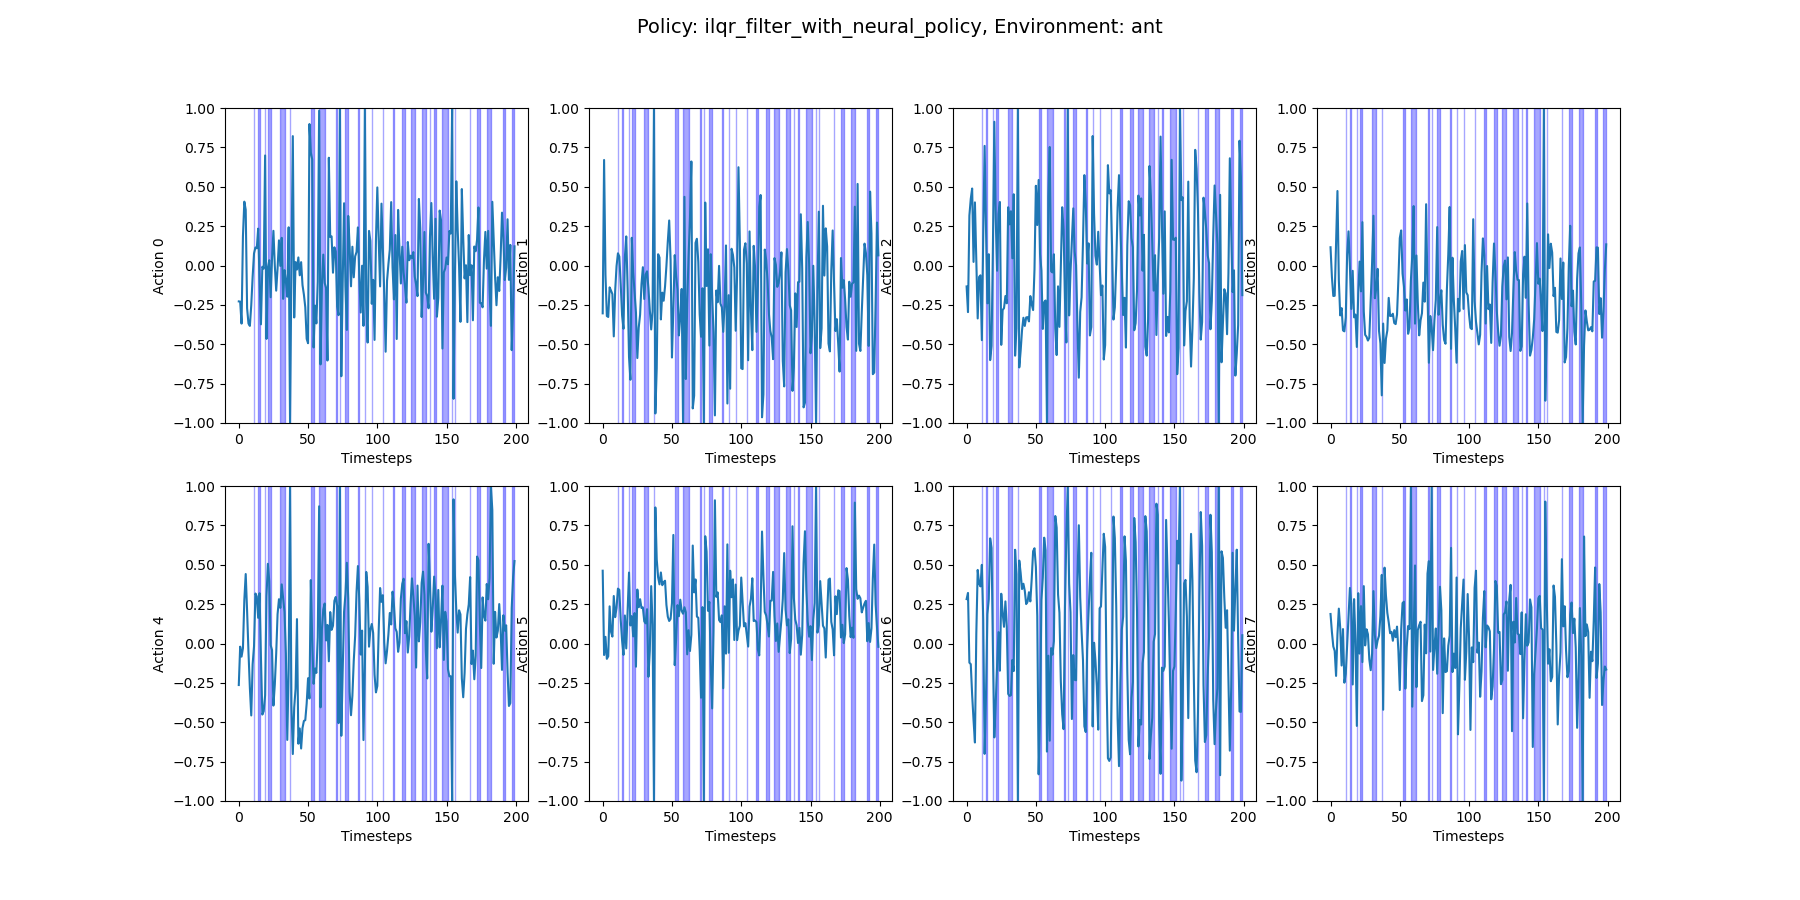
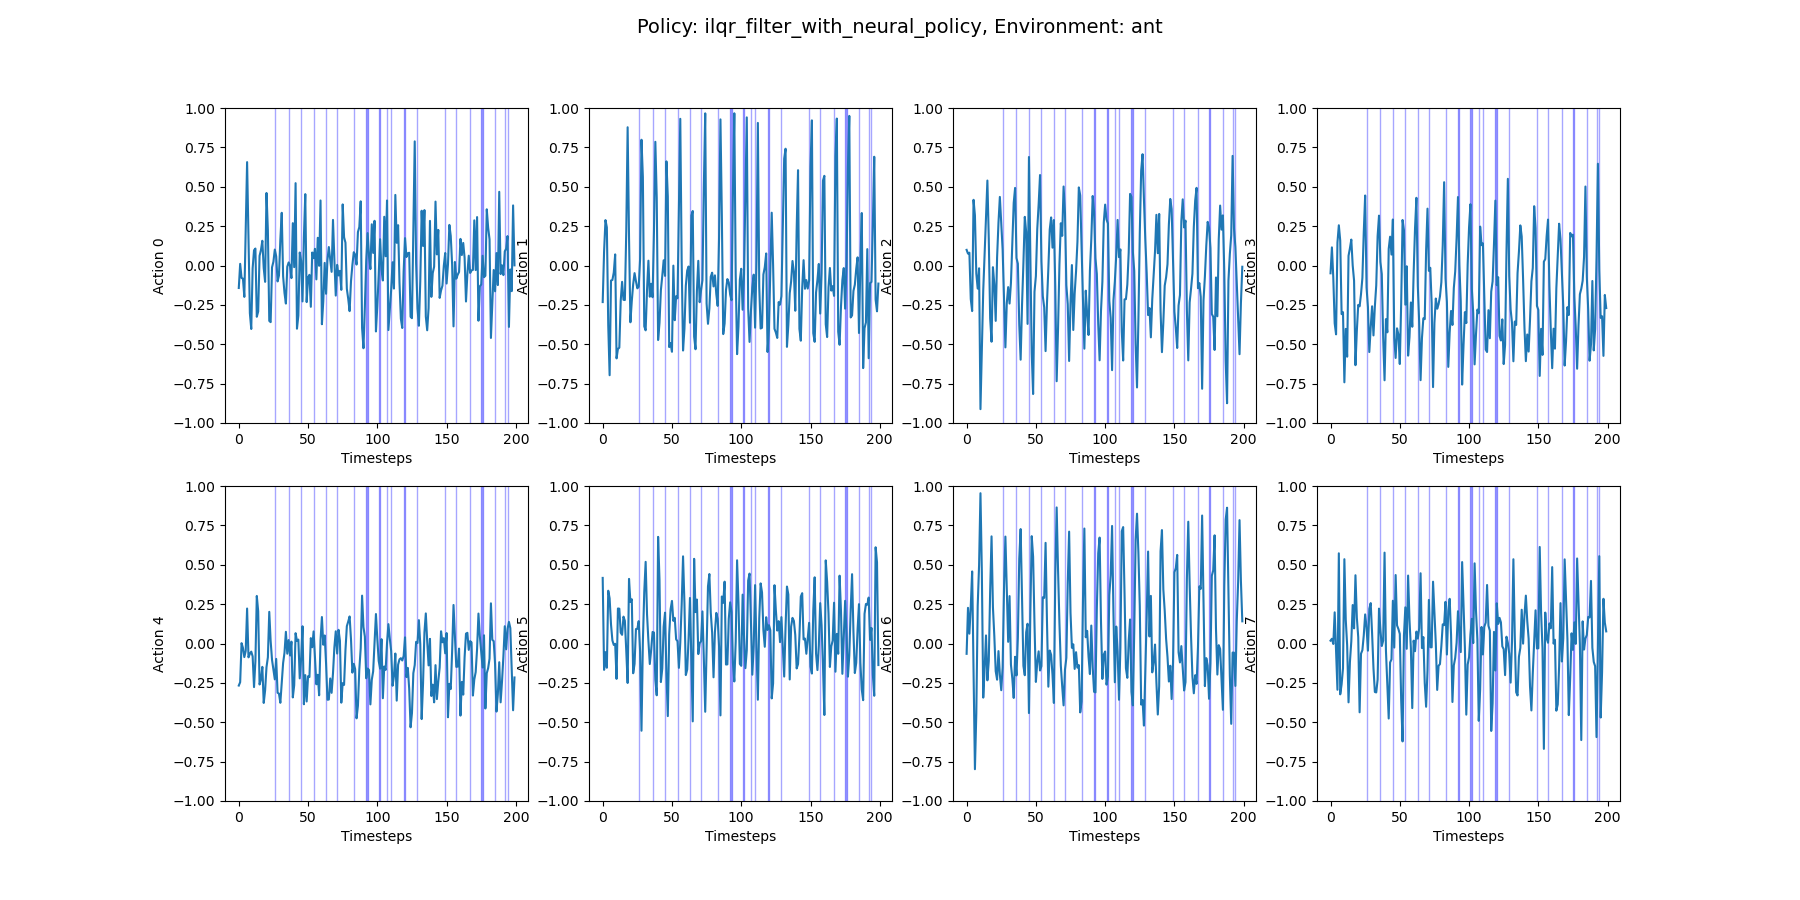
generalized ant

diff --git a/test_brax_env.py b/test_brax_env.py
@@ -247,9 +247,9 @@ def main(seed: int, env_name='reacher', policy_type="neural"):
     np.save(os.path.join(save_folder, f'{policy_type}_save_data.npy'), save_dict)
 
 if __name__ == "__main__":
-    for seed in range(5):
-      for policy_type in ["neural", "ilqr_filter_with_neural_policy"]:
+    for seed in range(1):
+      for policy_type in ["ilqr_filter_with_neural_policy"]:
         print(seed, policy_type)
-        env_name = 'reacher'
+        env_name = 'ant'
         main(seed, env_name=env_name, policy_type=policy_type)
 
